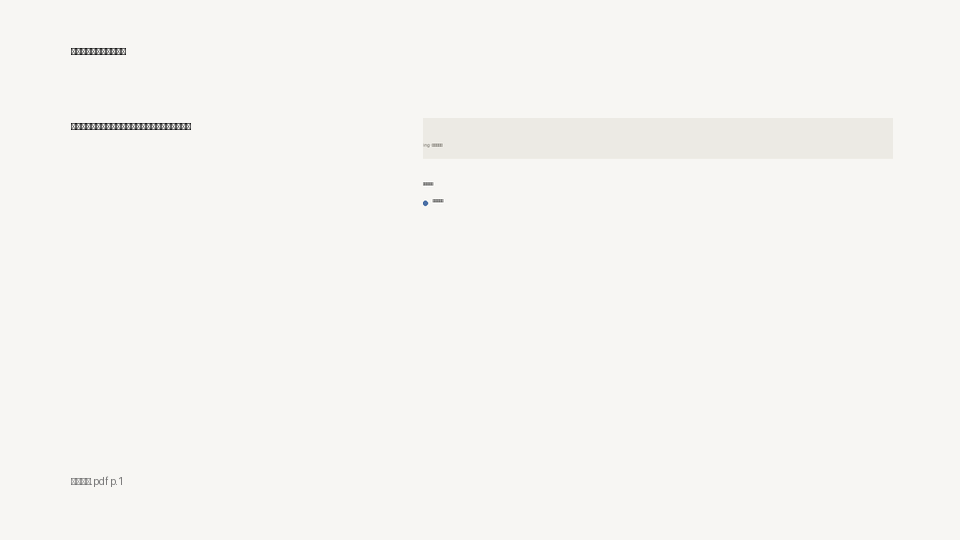
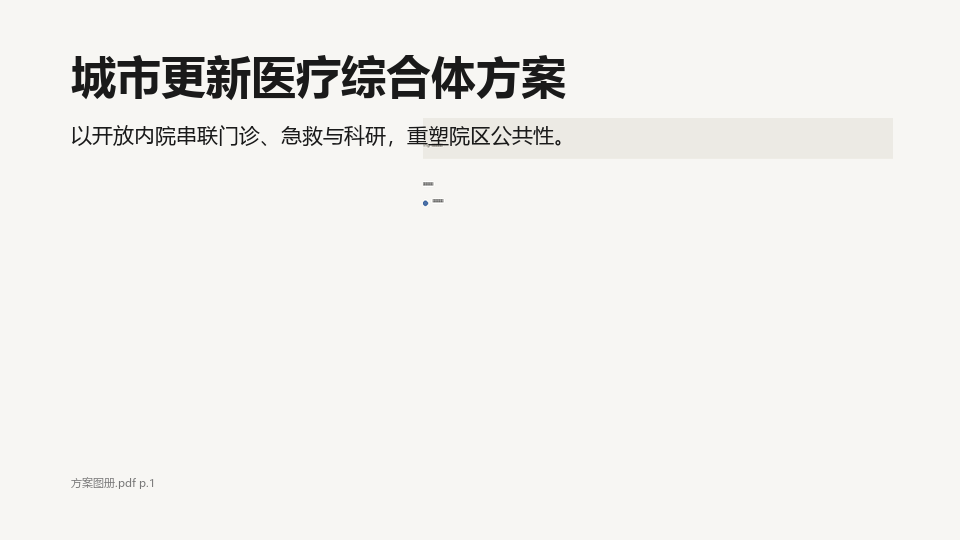
chore(tests): 更新架构幻灯片基准测试的哈希值和时间戳
- 更新 benchmark-summary.json 中的生成时间戳和所有场景哈希值
- 更新多个案例的 output.pptx.meta.json 和 pptx_render.meta.json 文件中的哈希值
- 在 QUALITY

Changed region(s): [[0.0625, 0.0889, 0.5938, 0.2074], [0.0625, 0.2074, 0.5938, 0.2963], [0.0625, 0.8889, 0.1562, 0.9185]]

diff --git a/tests/benchmark/architectural_slides/reports/benchmark-report.html b/tests/benchmark/architectural_slides/reports/benchmark-report.html
@@ -1,1 +1,1 @@
-<!DOCTYPE html><html lang="zh-CN"><head><meta charset="utf-8" /><title>Architectural Slide Benchmark Report</title><style>body{font-family:sans-serif;margin:24px}table{border-collapse:collapse;width:100%}th,td{border:1px solid #ddd;padding:8px;vertical-align:top}th{background:#f5f5f5}</style></head><body><h1>Architectural Slide Benchmark</h1><p>生成时间: 2026-07-20T17:01:12.138652+00:00</p><p>规则通过: 30/30 (100.0%)</p><p>人工评审: 0/30 · 可交付: 0/30 · 占位: 0</p><p>人工质量门禁: 未通过（需真实 manual 评审）</p><table><thead><tr><th>Case</th><th>标题</th><th>页面类型</th><th>LayoutFamily</th><th>预览</th><th>规则</th><th>规则分</th><th>渲染</th><th>人工分</th><th>评审来源</th><th>可交付</th><th>主要问题</th></tr></thead><tbody><tr><td>case_001_site_plan</td><td>院区总平面与指标</td><td>单张总平面主导页</td><td><code>drawing_focus</code></td><td><img src="case_001_site_plan\scene_preview.png" alt="preview" width="180" /></td><td>通过</td><td>1.0</td><td>有效</td><td>已作废（需重评）</td><td>invalidated</td><td>否</td><td>—</td></tr><tr><td>case_002_site_photos</td><td>老院区交通与环境问题</td><td>四张现场问题照片</td><td><code>evidence_board</code></td><td><img src="case_002_site_photos\scene_preview.png" alt="preview" width="180" /></td><td>通过</td><td>1.0</td><td>有效</td><td>已作废（需重评）</td><td>invalidated</td><td>否</td><td>—</td></tr><tr><td>case_003_case_comparison</td><td>国内外三座医疗更新案例比较</td><td>三案例横向比较</td><td><code>comparative_matrix</code></td><td><img src="case_003_case_comparison\scene_preview.png" alt="preview" width="180" /></td><td>通过</td><td>1.0</td><td>有效</td><td>已作废（需重评）</td><td>invalidated</td><td>否</td><td>—</td></tr><tr><td>case_004_economic_metrics</td><td>经济技术指标一览</td><td>经济技术指标</td><td><code>metric_dashboard</code></td><td><img src="case_004_economic_metrics\scene_preview.png" alt="preview" width="180" /></td><td>通过</td><td>1.0</td><td>有效</td><td>已作废（需重评）</td><td>invalidated</td><td>否</td><td>—</td></tr><tr><td>case_005_design_concept</td><td>设计理念：以患者路径组织空间</td><td>设计理念</td><td><code>textual_argument</code></td><td><img src="case_005_design_concept\scene_preview.png" alt="preview" width="180" /></td><td>通过</td><td>1.0</td><td>有效</td><td>已作废（需重评）</td><td>invalidated</td><td>否</td><td>—</td></tr><tr><td>case_006_project_hero</td><td>方案封面：内院视角效果图</td><td>封面主视觉</td><td><code>hero</code></td><td><img src="case_006_project_hero\scene_preview.png" alt="preview" width="180" /></td><td>通过</td><td>1.0</td><td>有效</td><td>已作废（需重评）</td><td>invalidated</td><td>否</td><td>—</td></tr><tr><td>case_007_aerial_hero</td><td>航拍总览：院区与周边关系</td><td>航拍主视觉</td><td><code>hero</code></td><td><img src="case_007_aerial_hero\scene_preview.png" alt="preview" width="180" /></td><td>通过</td><td>1.0</td><td>有效</td><td>已作废（需重评）</td><td>invalidated</td><td>否</td><td>—</td></tr><tr><td>case_008_overlay_hero</td><td>概念叠加：路径组织示意</td><td>图文叠加封面</td><td><code>hero</code></td><td><img src="case_008_overlay_hero\scene_preview.png" alt="preview" width="180" /></td><td>通过</td><td>1.0</td><td>有效</td><td>已作废（需重评）</td><td>invalidated</td><td>否</td><td>—</td></tr><tr><td>case_009_patient_journey</td><td>患者旅程时间轴</td><td>流程时间轴</td><td><code>process_narrative</code></td><td><img src="case_009_patient_journey\scene_preview.png" alt="preview" width="180" /></td><td>通过</td><td>1.0</td><td>有效</td><td>已作废（需重评）</td><td>invalidated</td><td>否</td><td>—</td></tr><tr><td>case_010_construction_phases</td><td>分期实施步骤</td><td>建设分期流程</td><td><code>process_narrative</code></td><td><img src="case_010_construction_phases\scene_preview.png" alt="preview" width="180" /></td><td>通过</td><td>1.0</td><td>有效</td><td>已作废（需重评）</td><td>invalidated</td><td>否</td><td>—</td></tr><tr><td>case_011_design_process</td><td>设计推演过程</td><td>设计过程时间轴</td><td><code>process_narrative</code></td><td><img src="case_011_design_process\scene_preview.png" alt="preview" width="180" /></td><td>通过</td><td>1.0</td><td>有效</td><td>已作废（需重评）</td><td>invalidated</td><td>否</td><td>—</td></tr><tr><td>case_012_circulation_diagram</td><td>流线分析图</td><td>分析图主导页</td><td><code>analytical_diagram</code></td><td><img src="case_012_circulation_diagram\scene_preview.png" alt="preview" width="180" /></td><td>通过</td><td>1.0</td><td>有效</td><td>已作废（需重评）</td><td>invalidated</td><td>否</td><td>—</td></tr><tr><td>case_013_zoning_callouts</td><td>功能分区与标注</td><td>分区分析图</td><td><code>analytical_diagram</code></td><td><img src="case_013_zoning_callouts\scene_preview.png" alt="preview" width="180" /></td><td>通过</td><td>1.0</td><td>有效</td><td>已作废（需重评）</td><td>invalidated</td><td>否</td><td>—</td></tr><tr><td>case_014_structure_concept</td><td>结构概念分析</td><td>结构概念图</td><td><code>analytical_diagram</code></td><td><img src="case_014_structure_concept\scene_preview.png" alt="preview" width="180" /></td><td>通过</td><td>1.0</td><td>有效</td><td>已作废（需重评）</td><td>invalidated</td><td>否</td><td>—</td></tr><tr><td>case_015_design_principles</td><td>三大设计原则</td><td>策略卡片（三卡）</td><td><code>strategy_cards</code></td><td><img src="case_015_design_principles\scene_preview.png" alt="preview" width="180" /></td><td>通过</td><td>0.955</td><td>有效</td><td>已作废（需重评）</td><td>invalidated</td><td>否</td><td>—</td></tr><tr><td>case_016_sustainability_cards</td><td>四项可持续策略</td><td>策略卡片（四卡）</td><td><code>strategy_cards</code></td><td><img src="case_016_sustainability_cards\scene_preview.png" alt="preview" width="180" /></td><td>通过</td><td>0.955</td><td>有效</td><td>已作废（需重评）</td><td>invalidated</td><td>否</td><td>—</td></tr><tr><td>case_017_spatial_strategy_lead</td><td>空间策略导言</td><td>策略卡片（导言+三卡）</td><td><code>strategy_cards</code></td><td><img src="case_017_spatial_strategy_lead\scene_preview.png" alt="preview" width="180" /></td><td>通过</td><td>1.0</td><td>有效</td><td>已作废（需重评）</td><td>invalidated</td><td>否</td><td>—</td></tr><tr><td>case_018_drawing_metrics_hybrid</td><td>总平面与指标综合页</td><td>混合画布：图纸+指标</td><td><code>hybrid_canvas</code></td><td><img src="case_018_drawing_metrics_hybrid\scene_preview.png" alt="preview" width="180" /></td><td>通过</td><td>1.0</td><td>有效</td><td>已作废（需重评）</td><td>invalidated</td><td>否</td><td>—</td></tr><tr><td>case_019_photo_text_hybrid</td><td>现场问题与策略回应</td><td>混合画布：照片+文字</td><td><code>hybrid_canvas</code></td><td><img src="case_019_photo_text_hybrid\scene_preview.png" alt="preview" width="180" /></td><td>通过</td><td>1.0</td><td>有效</td><td>已作废（需重评）</td><td>invalidated</td><td>否</td><td>—</td></tr><tr><td>case_020_synthesis_canvas</td><td>方案综合解读页</td><td>混合画布：多元素综合</td><td><code>hybrid_canvas</code></td><td><img src="case_020_synthesis_canvas\scene_preview.png" alt="preview" width="180" /></td><td>通过</td><td>1.0</td><td>有效</td><td>已作废（需重评）</td><td>invalidated</td><td>否</td><td>—</td></tr><tr><td>case_021_floor_plan_full</td><td>门诊层平面全幅</td><td>单张平面主导页</td><td><code>drawing_focus</code></td><td><img src="case_021_floor_plan_full\scene_preview.png" alt="preview" width="180" /></td><td>通过</td><td>1.0</td><td>有效</td><td>已作废（需重评）</td><td>invalidated</td><td>否</td><td>—</td></tr><tr><td>case_022_section_annotations</td><td>剖面与竖向关系</td><td>剖面标注页</td><td><code>drawing_focus</code></td><td><img src="case_022_section_annotations\scene_preview.png" alt="preview" width="180" /></td><td>通过</td><td>1.0</td><td>有效</td><td>已作废（需重评）</td><td>invalidated</td><td>否</td><td>—</td></tr><tr><td>case_023_survey_photo_grid</td><td>踏勘照片九宫格</td><td>多张照片网格</td><td><code>evidence_board</code></td><td><img src="case_023_survey_photo_grid\scene_preview.png" alt="preview" width="180" /></td><td>通过</td><td>1.0</td><td>有效</td><td>已作废（需重评）</td><td>invalidated</td><td>否</td><td>—</td></tr><tr><td>case_024_renovation_journey</td><td>改造历程照片叙事</td><td>历程照片叙事</td><td><code>evidence_board</code></td><td><img src="case_024_renovation_journey\scene_preview.png" alt="preview" width="180" /></td><td>通过</td><td>1.0</td><td>有效</td><td>已作废（需重评）</td><td>invalidated</td><td>否</td><td>—</td></tr><tr><td>case_025_scheme_columns</td><td>两套方案等列比较</td><td>双方案等列比较</td><td><code>comparative_matrix</code></td><td><img src="case_025_scheme_columns\scene_preview.png" alt="preview" width="180" /></td><td>通过</td><td>1.0</td><td>有效</td><td>已作废（需重评）</td><td>invalidated</td><td>否</td><td>—</td></tr><tr><td>case_026_before_after</td><td>改造前后对比</td><td>前后对比</td><td><code>comparative_matrix</code></td><td><img src="case_026_before_after\scene_preview.png" alt="preview" width="180" /></td><td>通过</td><td>1.0</td><td>有效</td><td>已作废（需重评）</td><td>invalidated</td><td>否</td><td>—</td></tr><tr><td>case_027_metric_cards_only</td><td>核心指标卡片</td><td>纯指标卡片</td><td><code>metric_dashboard</code></td><td><img src="case_027_metric_cards_only\scene_preview.png" alt="preview" width="180" /></td><td>通过</td><td>1.0</td><td>有效</td><td>已作废（需重评）</td><td>invalidated</td><td>否</td><td>—</td></tr><tr><td>case_028_energy_metrics_chart</td><td>能耗指标与趋势</td><td>指标+趋势图</td><td><code>metric_dashboard</code></td><td><img src="case_028_energy_metrics_chart\scene_preview.png" alt="preview" width="180" /></td><td>通过</td><td>1.0</td><td>有效</td><td>已作废（需重评）</td><td>invalidated</td><td>否</td><td>—</td></tr><tr><td>case_029_quote_argument</td><td>引用式理念陈述</td><td>引用体文字页</td><td><code>textual_argument</code></td><td><img src="case_029_quote_argument\scene_preview.png" alt="preview" width="180" /></td><td>通过</td><td>1.0</td><td>有效</td><td>已作废（需重评）</td><td>invalidated</td><td>否</td><td>—</td></tr><tr><td>case_030_two_column_policy</td><td>政策响应双栏论述</td><td>双栏文字页</td><td><code>textual_argument</code></td><td><img src="case_030_two_column_policy\scene_preview.png" alt="preview" width="180" /></td><td>通过</td><td>1.0</td><td>有效</td><td>已作废（需重评）</td><td>invalidated</td><td>否</td><td>—</td></tr></tbody></table></body></html>
+<!DOCTYPE html><html lang="zh-CN"><head><meta charset="utf-8" /><title>Architectural Slide Benchmark Report</title><style>body{font-family:sans-serif;margin:24px}table{border-collapse:collapse;width:100%}th,td{border:1px solid #ddd;padding:8px;vertical-align:top}th{background:#f5f5f5}</style></head><body><h1>Architectural Slide Benchmark</h1><p>生成时间: 2026-07-21T03:55:39.984360+00:00</p><p>规则通过: 30/30 (100.0%)</p><p>人工评审: 0/30 · 可交付: 0/30 · 占位: 0</p><p>人工质量门禁: 未通过（需真实 manual 评审）</p><table><thead><tr><th>Case</th><th>标题</th><th>页面类型</th><th>LayoutFamily</th><th>预览</th><th>规则</th><th>规则分</th><th>渲染</th><th>人工分</th><th>评审来源</th><th>可交付</th><th>主要问题</th></tr></thead><tbody><tr><td>case_001_site_plan</td><td>院区总平面与指标</td><td>单张总平面主导页</td><td><code>drawing_focus</code></td><td><img src="case_001_site_plan\scene_preview.png" alt="preview" width="180" /></td><td>通过</td><td>1.0</td><td>有效</td><td>已作废（需重评）</td><td>invalidated</td><td>否</td><td>—</td></tr><tr><td>case_002_site_photos</td><td>老院区交通与环境问题</td><td>四张现场问题照片</td><td><code>evidence_board</code></td><td><img src="case_002_site_photos\scene_preview.png" alt="preview" width="180" /></td><td>通过</td><td>1.0</td><td>有效</td><td>已作废（需重评）</td><td>invalidated</td><td>否</td><td>—</td></tr><tr><td>case_003_case_comparison</td><td>国内外三座医疗更新案例比较</td><td>三案例横向比较</td><td><code>comparative_matrix</code></td><td><img src="case_003_case_comparison\scene_preview.png" alt="preview" width="180" /></td><td>通过</td><td>1.0</td><td>有效</td><td>已作废（需重评）</td><td>invalidated</td><td>否</td><td>—</td></tr><tr><td>case_004_economic_metrics</td><td>经济技术指标一览</td><td>经济技术指标</td><td><code>metric_dashboard</code></td><td><img src="case_004_economic_metrics\scene_preview.png" alt="preview" width="180" /></td><td>通过</td><td>1.0</td><td>有效</td><td>已作废（需重评）</td><td>invalidated</td><td>否</td><td>—</td></tr><tr><td>case_005_design_concept</td><td>设计理念：以患者路径组织空间</td><td>设计理念</td><td><code>textual_argument</code></td><td><img src="case_005_design_concept\scene_preview.png" alt="preview" width="180" /></td><td>通过</td><td>1.0</td><td>有效</td><td>已作废（需重评）</td><td>invalidated</td><td>否</td><td>—</td></tr><tr><td>case_006_project_hero</td><td>方案封面：内院视角效果图</td><td>封面主视觉</td><td><code>hero</code></td><td><img src="case_006_project_hero\scene_preview.png" alt="preview" width="180" /></td><td>通过</td><td>1.0</td><td>有效</td><td>已作废（需重评）</td><td>invalidated</td><td>否</td><td>—</td></tr><tr><td>case_007_aerial_hero</td><td>航拍总览：院区与周边关系</td><td>航拍主视觉</td><td><code>hero</code></td><td><img src="case_007_aerial_hero\scene_preview.png" alt="preview" width="180" /></td><td>通过</td><td>1.0</td><td>有效</td><td>已作废（需重评）</td><td>invalidated</td><td>否</td><td>—</td></tr><tr><td>case_008_overlay_hero</td><td>概念叠加：路径组织示意</td><td>图文叠加封面</td><td><code>hero</code></td><td><img src="case_008_overlay_hero\scene_preview.png" alt="preview" width="180" /></td><td>通过</td><td>1.0</td><td>有效</td><td>已作废（需重评）</td><td>invalidated</td><td>否</td><td>—</td></tr><tr><td>case_009_patient_journey</td><td>患者旅程时间轴</td><td>流程时间轴</td><td><code>process_narrative</code></td><td><img src="case_009_patient_journey\scene_preview.png" alt="preview" width="180" /></td><td>通过</td><td>1.0</td><td>有效</td><td>已作废（需重评）</td><td>invalidated</td><td>否</td><td>—</td></tr><tr><td>case_010_construction_phases</td><td>分期实施步骤</td><td>建设分期流程</td><td><code>process_narrative</code></td><td><img src="case_010_construction_phases\scene_preview.png" alt="preview" width="180" /></td><td>通过</td><td>1.0</td><td>有效</td><td>已作废（需重评）</td><td>invalidated</td><td>否</td><td>—</td></tr><tr><td>case_011_design_process</td><td>设计推演过程</td><td>设计过程时间轴</td><td><code>process_narrative</code></td><td><img src="case_011_design_process\scene_preview.png" alt="preview" width="180" /></td><td>通过</td><td>1.0</td><td>有效</td><td>已作废（需重评）</td><td>invalidated</td><td>否</td><td>—</td></tr><tr><td>case_012_circulation_diagram</td><td>流线分析图</td><td>分析图主导页</td><td><code>analytical_diagram</code></td><td><img src="case_012_circulation_diagram\scene_preview.png" alt="preview" width="180" /></td><td>通过</td><td>1.0</td><td>有效</td><td>已作废（需重评）</td><td>invalidated</td><td>否</td><td>—</td></tr><tr><td>case_013_zoning_callouts</td><td>功能分区与标注</td><td>分区分析图</td><td><code>analytical_diagram</code></td><td><img src="case_013_zoning_callouts\scene_preview.png" alt="preview" width="180" /></td><td>通过</td><td>1.0</td><td>有效</td><td>已作废（需重评）</td><td>invalidated</td><td>否</td><td>—</td></tr><tr><td>case_014_structure_concept</td><td>结构概念分析</td><td>结构概念图</td><td><code>analytical_diagram</code></td><td><img src="case_014_structure_concept\scene_preview.png" alt="preview" width="180" /></td><td>通过</td><td>1.0</td><td>有效</td><td>已作废（需重评）</td><td>invalidated</td><td>否</td><td>—</td></tr><tr><td>case_015_design_principles</td><td>三大设计原则</td><td>策略卡片（三卡）</td><td><code>strategy_cards</code></td><td><img src="case_015_design_principles\scene_preview.png" alt="preview" width="180" /></td><td>通过</td><td>0.955</td><td>有效</td><td>已作废（需重评）</td><td>invalidated</td><td>否</td><td>—</td></tr><tr><td>case_016_sustainability_cards</td><td>四项可持续策略</td><td>策略卡片（四卡）</td><td><code>strategy_cards</code></td><td><img src="case_016_sustainability_cards\scene_preview.png" alt="preview" width="180" /></td><td>通过</td><td>0.955</td><td>有效</td><td>已作废（需重评）</td><td>invalidated</td><td>否</td><td>—</td></tr><tr><td>case_017_spatial_strategy_lead</td><td>空间策略导言</td><td>策略卡片（导言+三卡）</td><td><code>strategy_cards</code></td><td><img src="case_017_spatial_strategy_lead\scene_preview.png" alt="preview" width="180" /></td><td>通过</td><td>1.0</td><td>有效</td><td>已作废（需重评）</td><td>invalidated</td><td>否</td><td>—</td></tr><tr><td>case_018_drawing_metrics_hybrid</td><td>总平面与指标综合页</td><td>混合画布：图纸+指标</td><td><code>hybrid_canvas</code></td><td><img src="case_018_drawing_metrics_hybrid\scene_preview.png" alt="preview" width="180" /></td><td>通过</td><td>1.0</td><td>有效</td><td>已作废（需重评）</td><td>invalidated</td><td>否</td><td>—</td></tr><tr><td>case_019_photo_text_hybrid</td><td>现场问题与策略回应</td><td>混合画布：照片+文字</td><td><code>hybrid_canvas</code></td><td><img src="case_019_photo_text_hybrid\scene_preview.png" alt="preview" width="180" /></td><td>通过</td><td>1.0</td><td>有效</td><td>已作废（需重评）</td><td>invalidated</td><td>否</td><td>—</td></tr><tr><td>case_020_synthesis_canvas</td><td>方案综合解读页</td><td>混合画布：多元素综合</td><td><code>hybrid_canvas</code></td><td><img src="case_020_synthesis_canvas\scene_preview.png" alt="preview" width="180" /></td><td>通过</td><td>1.0</td><td>有效</td><td>已作废（需重评）</td><td>invalidated</td><td>否</td><td>—</td></tr><tr><td>case_021_floor_plan_full</td><td>门诊层平面全幅</td><td>单张平面主导页</td><td><code>drawing_focus</code></td><td><img src="case_021_floor_plan_full\scene_preview.png" alt="preview" width="180" /></td><td>通过</td><td>1.0</td><td>有效</td><td>已作废（需重评）</td><td>invalidated</td><td>否</td><td>—</td></tr><tr><td>case_022_section_annotations</td><td>剖面与竖向关系</td><td>剖面标注页</td><td><code>drawing_focus</code></td><td><img src="case_022_section_annotations\scene_preview.png" alt="preview" width="180" /></td><td>通过</td><td>1.0</td><td>有效</td><td>已作废（需重评）</td><td>invalidated</td><td>否</td><td>—</td></tr><tr><td>case_023_survey_photo_grid</td><td>踏勘照片九宫格</td><td>多张照片网格</td><td><code>evidence_board</code></td><td><img src="case_023_survey_photo_grid\scene_preview.png" alt="preview" width="180" /></td><td>通过</td><td>1.0</td><td>有效</td><td>已作废（需重评）</td><td>invalidated</td><td>否</td><td>—</td></tr><tr><td>case_024_renovation_journey</td><td>改造历程照片叙事</td><td>历程照片叙事</td><td><code>evidence_board</code></td><td><img src="case_024_renovation_journey\scene_preview.png" alt="preview" width="180" /></td><td>通过</td><td>1.0</td><td>有效</td><td>已作废（需重评）</td><td>invalidated</td><td>否</td><td>—</td></tr><tr><td>case_025_scheme_columns</td><td>两套方案等列比较</td><td>双方案等列比较</td><td><code>comparative_matrix</code></td><td><img src="case_025_scheme_columns\scene_preview.png" alt="preview" width="180" /></td><td>通过</td><td>1.0</td><td>有效</td><td>已作废（需重评）</td><td>invalidated</td><td>否</td><td>—</td></tr><tr><td>case_026_before_after</td><td>改造前后对比</td><td>前后对比</td><td><code>comparative_matrix</code></td><td><img src="case_026_before_after\scene_preview.png" alt="preview" width="180" /></td><td>通过</td><td>1.0</td><td>有效</td><td>已作废（需重评）</td><td>invalidated</td><td>否</td><td>—</td></tr><tr><td>case_027_metric_cards_only</td><td>核心指标卡片</td><td>纯指标卡片</td><td><code>metric_dashboard</code></td><td><img src="case_027_metric_cards_only\scene_preview.png" alt="preview" width="180" /></td><td>通过</td><td>1.0</td><td>有效</td><td>已作废（需重评）</td><td>invalidated</td><td>否</td><td>—</td></tr><tr><td>case_028_energy_metrics_chart</td><td>能耗指标与趋势</td><td>指标+趋势图</td><td><code>metric_dashboard</code></td><td><img src="case_028_energy_metrics_chart\scene_preview.png" alt="preview" width="180" /></td><td>通过</td><td>1.0</td><td>有效</td><td>已作废（需重评）</td><td>invalidated</td><td>否</td><td>—</td></tr><tr><td>case_029_quote_argument</td><td>引用式理念陈述</td><td>引用体文字页</td><td><code>textual_argument</code></td><td><img src="case_029_quote_argument\scene_preview.png" alt="preview" width="180" /></td><td>通过</td><td>1.0</td><td>有效</td><td>已作废（需重评）</td><td>invalidated</td><td>否</td><td>—</td></tr><tr><td>case_030_two_column_policy</td><td>政策响应双栏论述</td><td>双栏文字页</td><td><code>textual_argument</code></td><td><img src="case_030_two_column_policy\scene_preview.png" alt="preview" width="180" /></td><td>通过</td><td>1.0</td><td>有效</td><td>已作废（需重评）</td><td>invalidated</td><td>否</td><td>—</td></tr></tbody></table></body></html>

diff --git a/tests/benchmark/architectural_slides/test_dual_benchmark.py b/tests/benchmark/architectural_slides/test_dual_benchmark.py
@@ -73,18 +73,39 @@ def test_invalidated_manual_review_cannot_count_for_delivery() -> None:
     assert review.validity == ReviewValidity.INVALID_RENDER_ARTIFACT
 
 
[email redacted]("case_id", ["case_001_site_plan", "case_002_site_photos", "case_006_project_hero"])
-def test_reused_screenshots_block_formal_visual_review(case_id: str) -> None:
-    """Current goldens reuse pptx_render.png — formal visual scoring must stay blocked."""
+PILOT_FRESH_SCREENSHOT_CASES = (
+    "case_001_site_plan",
+    "case_002_site_photos",
+    "case_006_project_hero",
+)
+
+
[email redacted]("case_id", list(PILOT_FRESH_SCREENSHOT_CASES))
+def test_pilot_fresh_screenshots_unlock_formal_visual_review(case_id: str) -> None:
+    """Pilot trio regenerated via PowerPoint — formal visual scoring may proceed."""
     directory = case_dir(case_id)
     eligible, manifest, blockers = visual_review_eligibility(directory)
     assert manifest is not None
     assert manifest.render_valid is True, blockers
+    assert manifest.pptx_screenshot_generated is True
+    assert manifest.pptx_screenshot_reused is False
+    assert eligible is True, blockers
+    edit_ok, edit_blockers = editability_review_eligibility(directory)
+    assert edit_ok is True, edit_blockers
+
+
[email redacted]("case_id", ["case_003_case_comparison", "case_010_construction_phases"])
+def test_reused_screenshots_still_block_non_pilot_cases(case_id: str) -> None:
+    """Non-regenerated goldens remain blocked until fresh PPTX screenshots exist."""
+    directory = case_dir(case_id)
+    eligible, manifest, blockers = visual_review_eligibility(directory)
+    assert manifest is not None
+    assert manifest.render_valid is True, blockers
+    if manifest.pptx_screenshot_generated:
+        pytest.skip(f"{case_id} already has a fresh screenshot")
     assert manifest.pptx_screenshot_reused is True
-    assert manifest.pptx_screenshot_generated is False
     assert eligible is False, "reused screenshot must not unlock formal visual review"
     assert any("pptx_screenshot_generated" in item for item in blockers)
-    assert any("pptx_screenshot_reused" in item for item in blockers)
     edit_ok, edit_blockers = editability_review_eligibility(directory)
     assert edit_ok is True, edit_blockers
 

diff --git a/tests/e2e/rendered_benchmark/test_phase9_review_eligibility.py b/tests/e2e/rendered_benchmark/test_phase9_review_eligibility.py
@@ -44,19 +44,24 @@ def test_phase9_reused_screenshots_block_formal_visual_review() -> None:
     assert len(case_ids) == HUMAN_REVIEW_FORMAL_TOTAL_CASES
     still_unlocked: list[str] = []
     reused_blocked = 0
+    freshly_eligible = 0
     for case_id in case_ids:
         directory = case_dir(case_id)
         eligible, manifest, blockers = visual_review_eligibility(directory)
         assert pptx_render_path(directory).is_file(), f"{case_id} missing pptx_render.png"
         assert manifest is not None, case_id
-        if manifest.pptx_screenshot_reused and not manifest.pptx_screenshot_generated:
+        if manifest.pptx_screenshot_generated and not manifest.pptx_screenshot_reused:
+            freshly_eligible += 1
+            assert eligible is True, f"{case_id}: {blockers}"
+        elif manifest.pptx_screenshot_reused and not manifest.pptx_screenshot_generated:
             reused_blocked += 1
             assert eligible is False, case_id
             assert any("pptx_screenshot_generated" in item for item in blockers)
         elif eligible and not manifest.pptx_screenshot_generated:
             still_unlocked.append(case_id)
-    assert reused_blocked == HUMAN_REVIEW_FORMAL_TOTAL_CASES, (
-        "expected all current goldens to declare reused screenshots"
+    assert freshly_eligible >= 3, "expected pilot trio to have fresh screenshots"
+    assert reused_blocked + freshly_eligible == HUMAN_REVIEW_FORMAL_TOTAL_CASES, (
+        f"unexpected manifest mix: fresh={freshly_eligible} reused={reused_blocked}"
     )
     assert still_unlocked == []
 

diff --git a/docs/QUALITY_GATE_STATUS.md b/docs/QUALITY_GATE_STATUS.md
@@ -71,24 +71,74 @@ Resolver: `archium/application/visual/asset_path_resolver.py` (`AssetPathResolve
 | `font_fallbacks` 识别 Arial→CJK 隐式替换 | **Enforced** via `detect_font_fallbacks` |
 | 本机字体路径写入 Scene | **Forbidden**（仅 manifest 记录运行时替换） |
 
+## Final verdict (2026-07-21) — engineering trust vs formal pass
+
+**Solved this round (engineering credibility):**
+
+- Portable asset URIs; scene ↔ PPTX ↔ screenshot identity / hash chain
+- Structured render evidence; formal visual save blocked on reuse / inconsistency
+- Repo hygiene for `.data/`; Golden binary governance
+- Honest scope labels (RenderScene V1, ReferenceStyle not in compiler, Phase 8 ≠ acceptance)
+
+**Remaining last layer before formal pass:**
+
+`scene.json` → `output.pptx` → `pptx_render.png` must use a **freshly generated** screenshot
+(`pptx_screenshot_generated=true`), not a reused historical PNG. Hash agreement alone is not enough.
+
+Formal gate already **requires** `pptx_screenshot_generated=true` (item 2 done in code).
+
+### Next steps — only these three
+
+1. **Regenerate screenshots** with Windows PowerPoint COM (or CI LibreOffice) for Goldens  
+2. **Keep** formal quality gate on `pptx_screenshot_generated=true` (already enforced)  
+3. **Pilot human review on 3 pages**, then expand to 30
+
+### Pilot trio (do first)
+
+| Case | Covers | Fresh screenshot (this host) |
+|------|--------|------------------------------|
+| `case_001_site_plan` | 建筑图纸 | Regenerated via PowerPoint COM |
+| `case_002_site_photos` | 多张现场照片 | Regenerated via PowerPoint COM |
+| `case_006_project_hero` | 大图视觉页面 | Regenerated via PowerPoint COM |
+
+Each pilot page must simultaneously satisfy:
+
+- Fresh PPTX screenshot (`pptx_screenshot_generated=true`) — **done for pilot trio on this machine**
+- Scene / PPTX / screenshot hash consistency — **pilot trio eligible**
+- Manual visual review passed (`source=manual`) — **still required (human)**
+- PPTX editability review passed — **still required (human)**
+
+Only then expand formal review / screenshot regen to all 30 pages.
+
+```bash
+# Regenerate pilot screenshots into Goldens (PowerPoint available on this host)
+python scripts/render_architectural_benchmark_visuals.py --write-goldens \
+  --case case_001_site_plan \
+  --case case_002_site_photos \
+  --case case_006_project_hero
+```
+
+Then Settings →「建筑幻灯片基准 · 人工视觉评审」for those three only.
+
 ## Architectural Slide Benchmark (30 cases)
 
 | Gate | Status | Evidence |
 |------|--------|----------|
 | Layout rule quality | **Passed** | `rule_pass_rate = 1.0` (30/30) |
-| Manual human visual review | **Not started / blocked** | `manual_human_review_count = 0`; current goldens have `pptx_screenshot_reused=true` |
+| Provenance chain scene → PPTX → screenshot | **In place** | hashes + sidecars |
+| Manual human visual review | **Not started** | `manual_human_review_count = 0`; pilot trio unlocked for scoring after fresh shots |
 | Manual delivery acceptance | **Not started** | `manual_human_accepted_count = 0` |
 | Placeholder reviews | 30 | `source=placeholder` in each `human_review.json` |
-| Fresh PPTX screenshot for formal scoring | **Not met** | all 30 manifests: `pptx_screenshot_generated=false`, `pptx_screenshot_reused=true` |
+| Fresh PPTX screenshot for formal scoring | **Partial** | pilot 3: `generated=true`; remaining 27 still typically `reused=true` |
 | Human quality gate | **Failed** | `human_quality_gate_passed = false` |
 
 Report: `tests/benchmark/architectural_slides/reports/benchmark-summary.json`
 
-**What automation proves:** geometry, overflow, hero sizing, whitespace rules, Deck QA scores.
+**What automation proves:** geometry, overflow, hero sizing, whitespace rules, Deck QA scores, identity/hash chain.
 
-**What automation does not prove:** information hierarchy, aesthetic finish, architect willingness to deliver, editability in practice.
+**What automation does not prove:** Office-true fonts/overflow/layout, information hierarchy, aesthetic finish, architect willingness to deliver.
 
-**How to complete:** regenerate each case's `pptx_render.png` via PowerPoint/LibreOffice (`pptx_screenshot_generated=true`), then use Settings →「建筑幻灯片基准 · 人工视觉评审」or edit each case's `human_review.json` with `"source": "manual"`, `"reviewer"`, `"reviewed_at"`, and real scores. UI defaults to `pptx_render.png` preview; visual score submit is disabled unless that preview mode is active **and** the screenshot was freshly generated.
+**How to complete:** follow **Next steps — only these three** (pilot 3 → then 30). Visual score submit stays disabled unless preview is `pptx_render.png` **and** `pptx_screenshot_generated=true`.
 
 ## Phase 8 local runs ≠ formal real-project acceptance (honest)
 

diff --git a/tests/benchmark/architectural_slides/README.md b/tests/benchmark/architectural_slides/README.md
@@ -4,7 +4,7 @@
 
 本目录下的 PPTX / PNG / Scene 等是**经评审的 Golden Benchmark**（允许提交），**不是** `.data/phase8` 一类运行时垃圾。必须按下方治理规则更新，否则每次重渲染都会产生大批无避免的二进制 diff。
 
-汇总状态见 [`docs/QUALITY_GATE_STATUS.md`](../../../docs/QUALITY_GATE_STATUS.md)。
+汇总状态与**试点三页 → 再扩 30**计划见 [`docs/QUALITY_GATE_STATUS.md`](../../../docs/QUALITY_GATE_STATUS.md) § Final verdict。
 
 ---
 